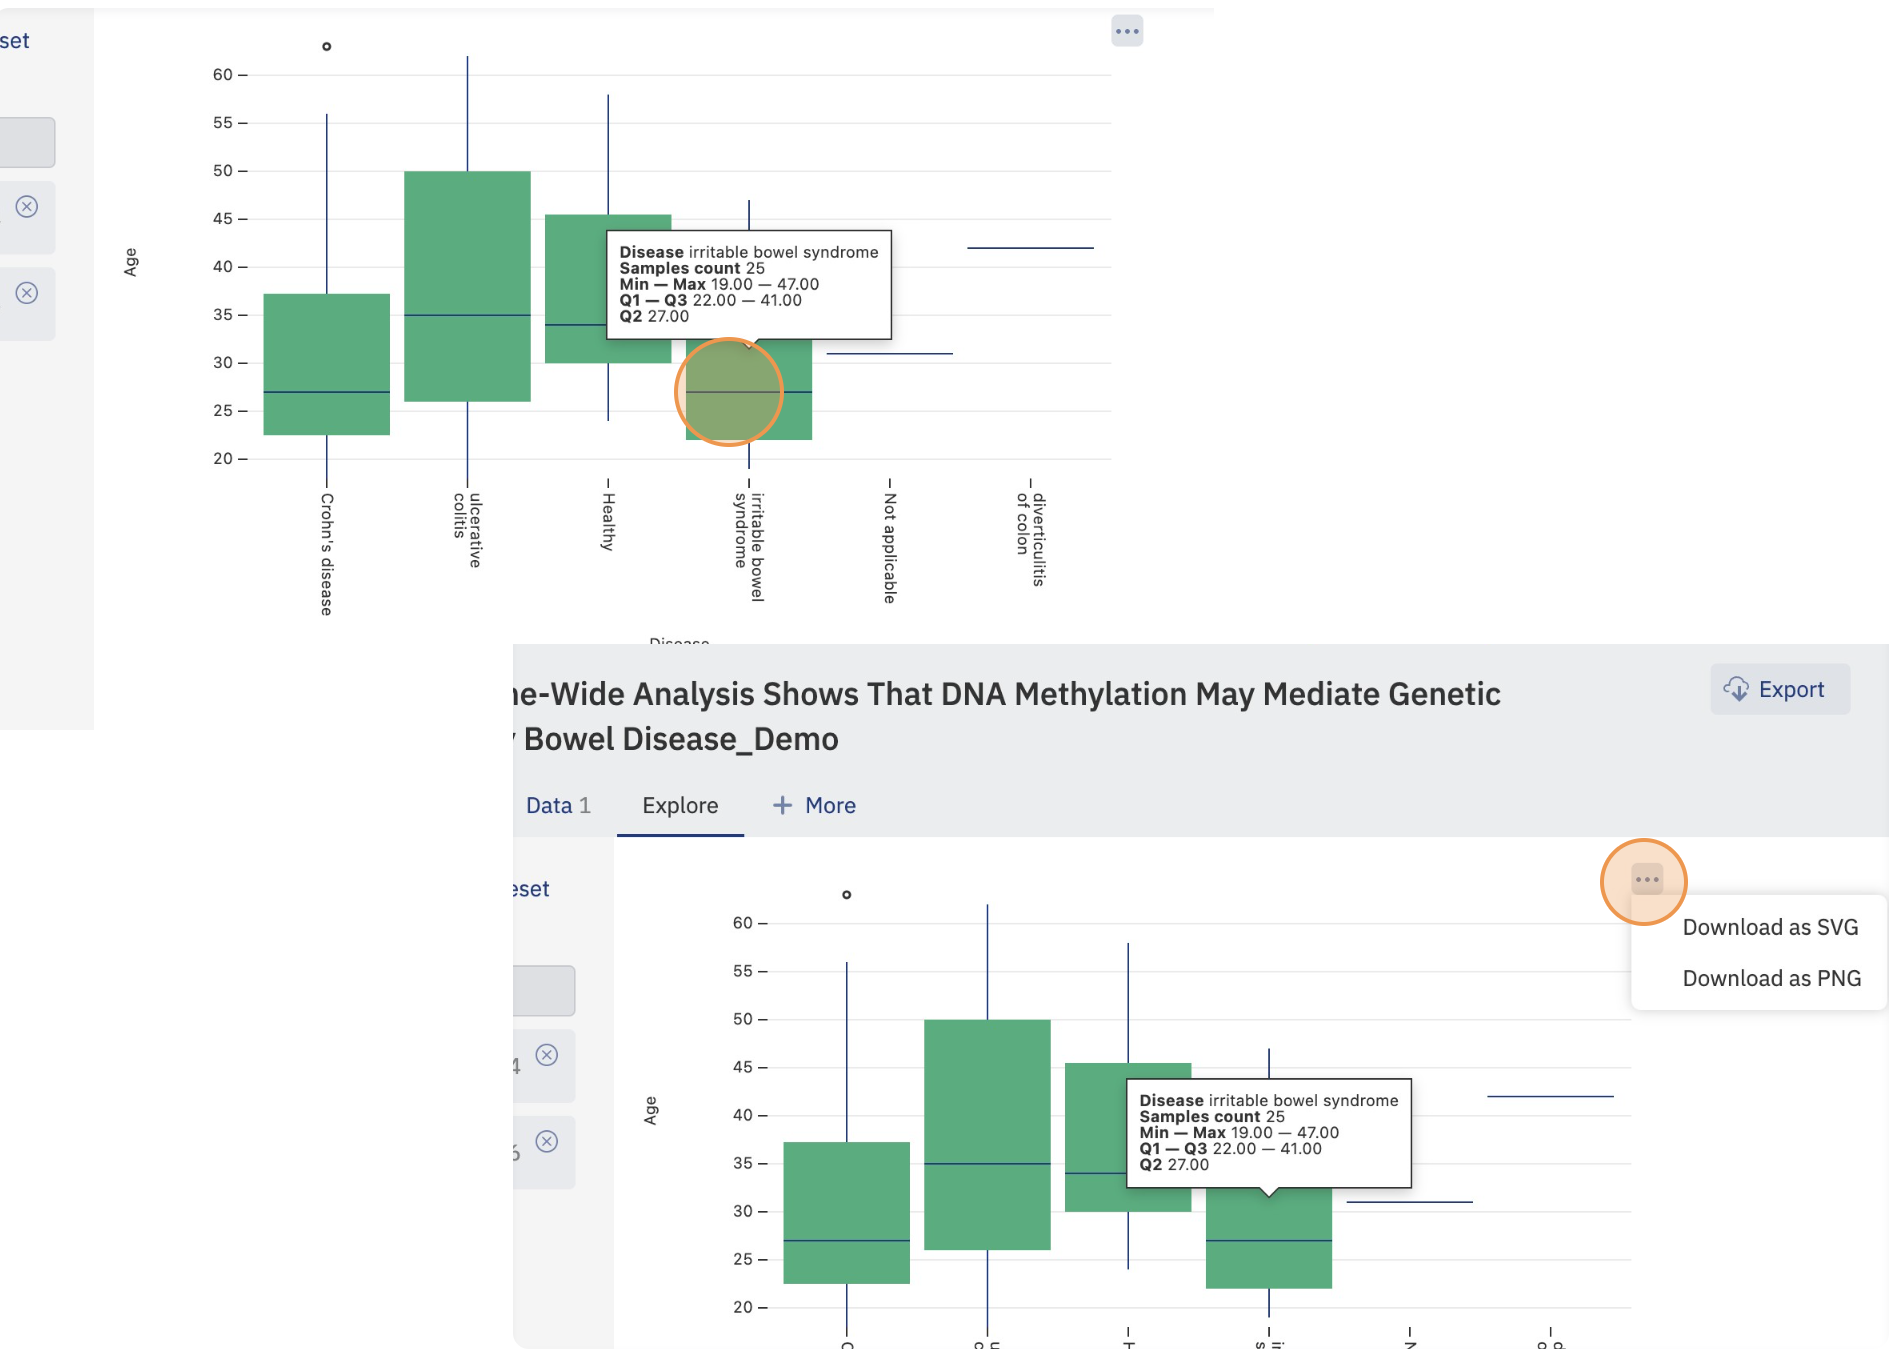
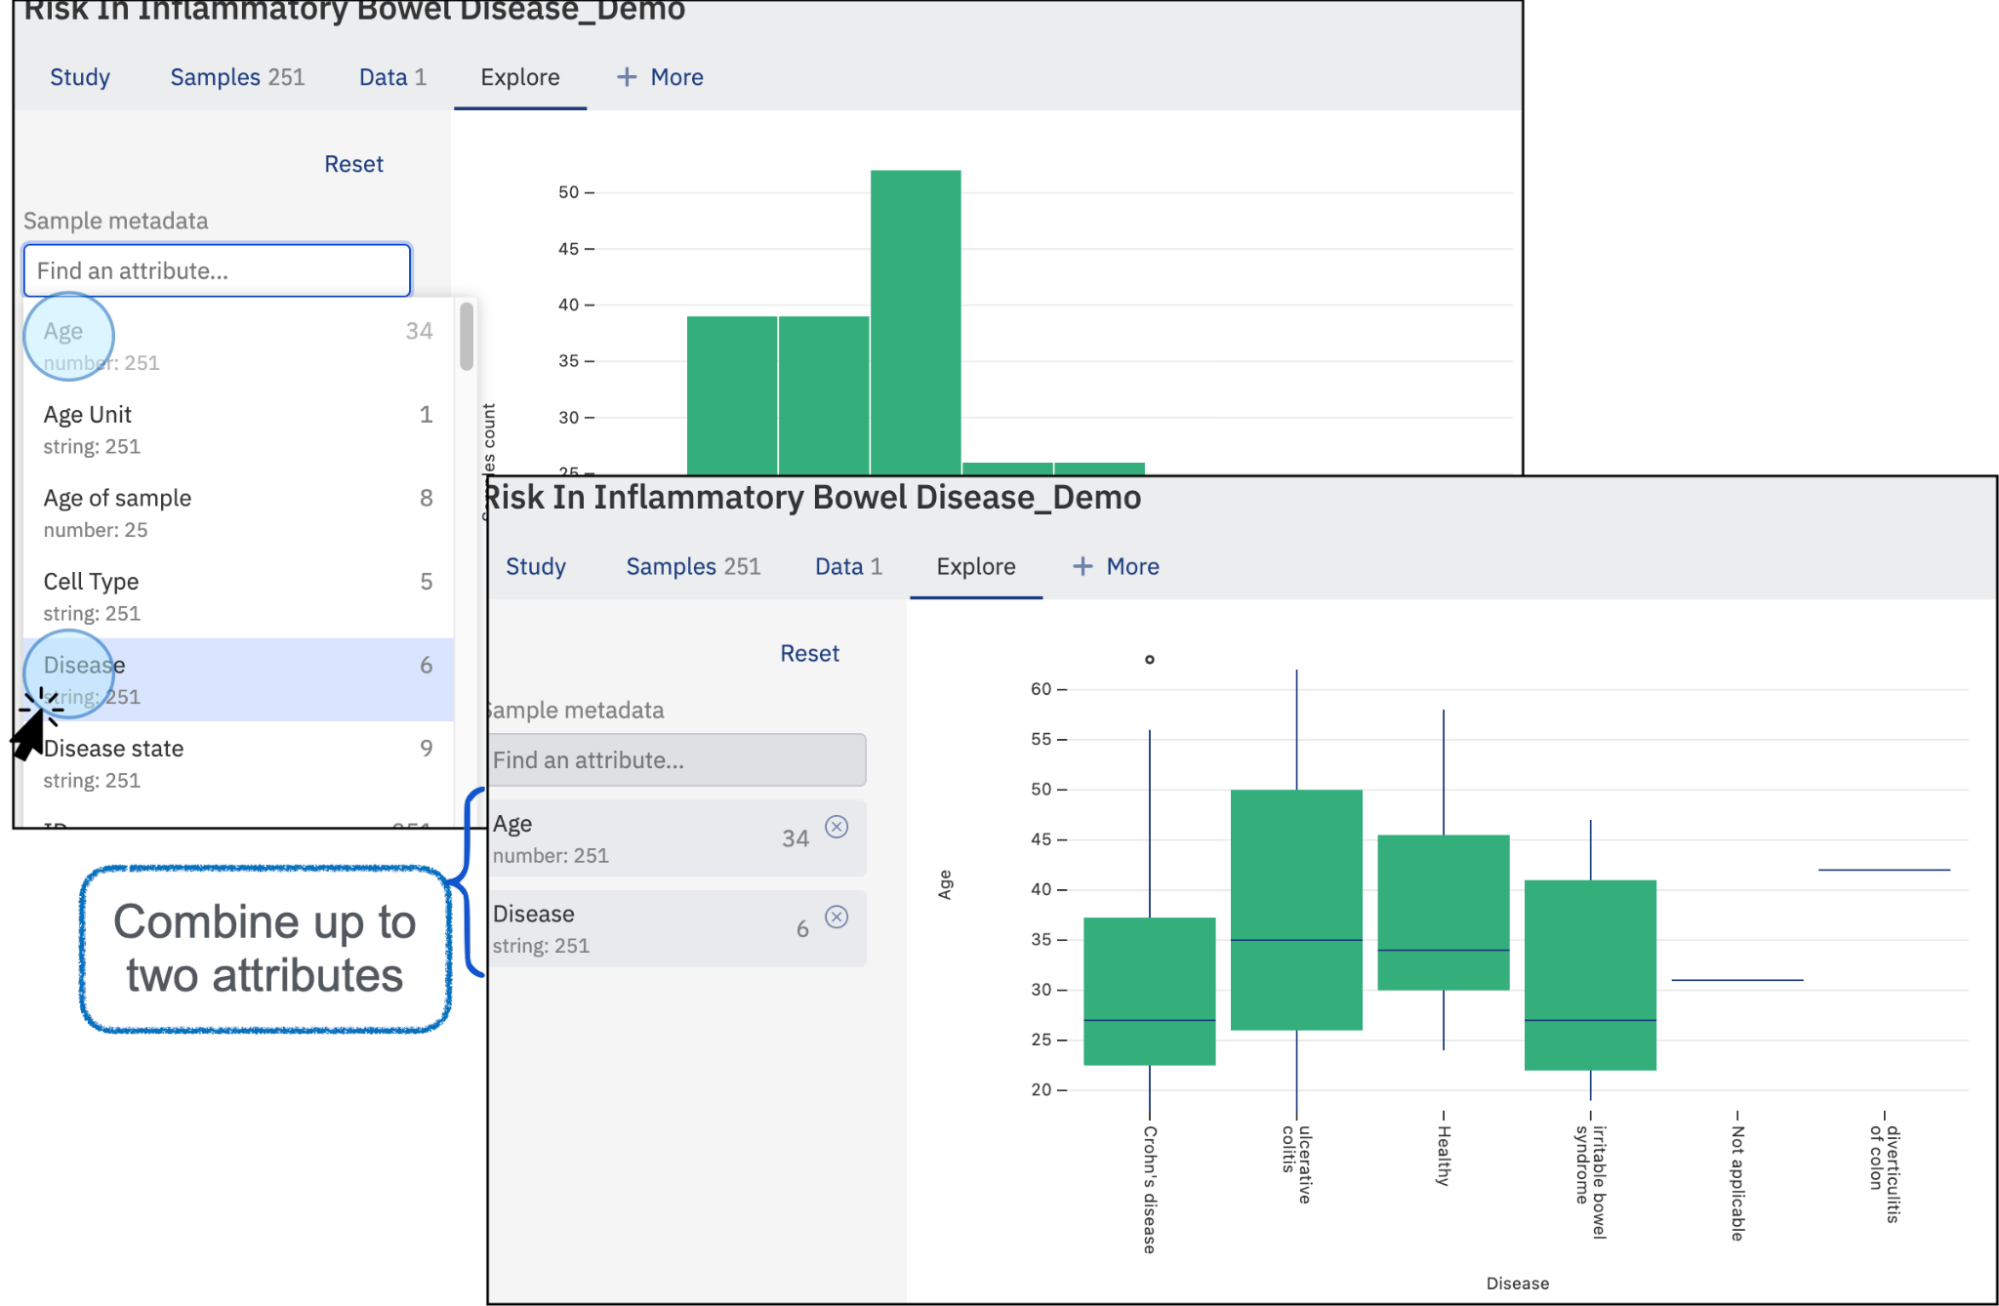
Data Consumer in the User Interface page is updated with new version of text (mostly better English) AND new screenshots. Still waiting for 3 more screenshots to be updated.

diff --git a/docs/user-guide/quick-start/consumer-gui.md b/docs/user-guide/quick-start/consumer-gui.md
@@ -4,31 +4,47 @@ This guide will help you navigate the main features of the Open Data Manager as 
 
 ## Main Page
 
-This is how the main page of the Open Data Manager looks:
+When you open ODM you will be taken to the start page or “Dashboard” as shown below:
 
 ![Main Page](quick-start-images/main-page.png)
 
 ## Browse Studies
 
-As a Data Consumer, you can browse and explore various studies.
+As a Data Consumer, you can browse and explore various studies. 
+
+To search and browse studies, click on the **“Browse studies”** button on the dashboard/start page.
 
 ![Browse Studies](quick-start-images/browse-studies.png)
 
 ## Search for Data
 
-Apply filters to search for specific studies. For example, select filters such as Data Class, Organism, etc.
+Apply filters to search for specific studies. For example, select filters using the criteria in the panel on the left, 
+such as Data Class, Organism, etc.
+
+!!! info "The exact filters you see may vary due to the data contained within your ODM system. Administrators can lock which facets are available for all users."
+
+<figure markdown="span">
+  ![Filters](quick-start-images/filters.png){ width="700" }
+  <figcaption>Users can apply filters to refine their search, including Organism, Data Class, Organization Name, Study Type, Study Source, etc.</figcaption>
+</figure>
+
+The system's search functionality is designed to enhance user experience and efficiency by allowing users 
+to look up specific keywords effortlessly. By entering terms such as **"bowel"**, users can quickly access a range 
+of relevant studies. Additionally, the search bar is equipped with an intuitive autocomplete feature, 
+which not only predicts and suggests potential search terms but also provides values from various ontologies. 
+This ensures a more streamlined and accurate search process, making it easier to navigate through the available 
+data and find pertinent information swiftly.
 
 ![Data Search](quick-start-images/search-data.png)
 
-Use the search bar to look for specific keywords. For example, searching for the word "bowel" will display 
-the available studies containing this word. In addition, the system provides an autocomplete feature 
-that offers values for different ontologies in the search bar.
-
-![Data Search](quick-start-images/search-data-2.png)
+Use the search bar to find specific keywords, such as **"bowel"** to display relevant studies.
+The autocomplete feature also suggests values from various ontologies.
 
 ## Select a Study
 
-Once you find a study of interest, click on it to open it.
+After applying the desired filters to narrow down your search results, you will see a list of studies 
+that match your criteria. To delve deeper into a specific study, simply click on the corresponding icon. 
+This action will open the study, allowing you to review its details and findings comprehensively.
 
 ![Select Study](quick-start-images/selet-study.png)
 
@@ -39,23 +55,41 @@ The study will open in a new tab, where the following tabs can be explored:
 
 ![Study Tabs](quick-start-images/study-tabs.png)
 
+### Accession number
+
+In addition, a unique accession number is automatically generated for each study in the ODM. 
+The accession number allows you to identify the specific study and to further work with the study via API endpoints. 
+Learn more about API endpoints and functionalities in the API User Guide.
+
+![Accession](quick-start-images/accession.png)
+
+Every study imported to the ODM contains a unique identifier named accession number. 
+You can visualize the accession number on the Study tab, or you can copy the accession number 
+by clicking on the top bar of the main page and selecting “copy accession”
+
 ## Visualize Data
 
 To visualize the study data:
 
 1. Click on **Explore**.
+   ![Explore View](quick-start-images/explore-data.png)
+
 2. Select an attribute to display. For example, "Age".
 3. A plot will be created showing the values for the attribute "Age".
+   ![Explore View](quick-start-images/explore-data-2.png)
 
-![Explore View](quick-start-images/explore-data.png)
+4. To combine up to two attributes, such as "Age" and "Disease" simply select another attribute from the menu.
+   ![Explore View](quick-start-images/explore-data-3.png)
 
-* Combine up to two attributes, such as "Age" and "Disease".
+5. To remove an attribute from your comparison click the :material-window-close: at the top right corner 
+of the attribute in the list or use **Reset** option to remove all the attributes.
+   ![Explore View](quick-start-images/explore-data-4.png)
 
-![Explore View](quick-start-images/explore-data-2.png)
+6. The plot combining two attributes displays informative data, such as sample count, and minimal and maximum values.
+   ![Explore View](quick-start-images/explore-data-4.png)
 
-* Explore statistical data and export the plot in SVG or PNG formats.
-
-![Explore View](quick-start-images/explore-data-3.png)
+7. To export the plot in SVG or PNG formats, simply hover over the top right corner of the plot. A menu with three dots :material-dots-horizontal: will appear, allowing you to select the desired format for download. The available formats for downloading the plot are SVG and PNG.
+   ![Explore View](quick-start-images/explore-data-export.png)
 
 ## Export Data
 
@@ -67,5 +101,5 @@ Export all the information contained in the study. Note that some studies may ha
 
 ![Export Data](quick-start-images/export-data.png)
 
-By following these steps, you can efficiently browse, visualize, 
-and export data as a Data Consumer using the GUI of the Open Data Manager.
+By following these steps, you can efficiently browse, visualize, and export data as a Data Consumer using 
+the Interface of Open Data Manager.
